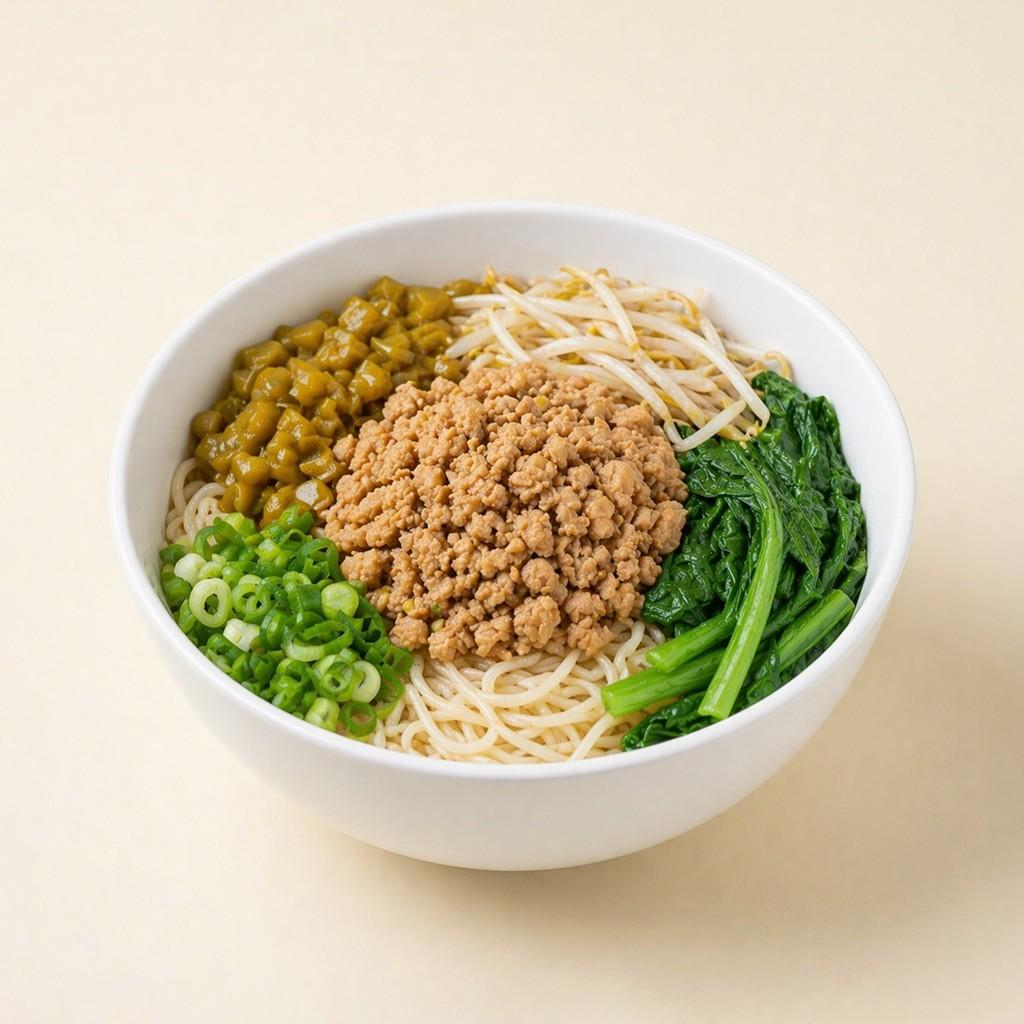
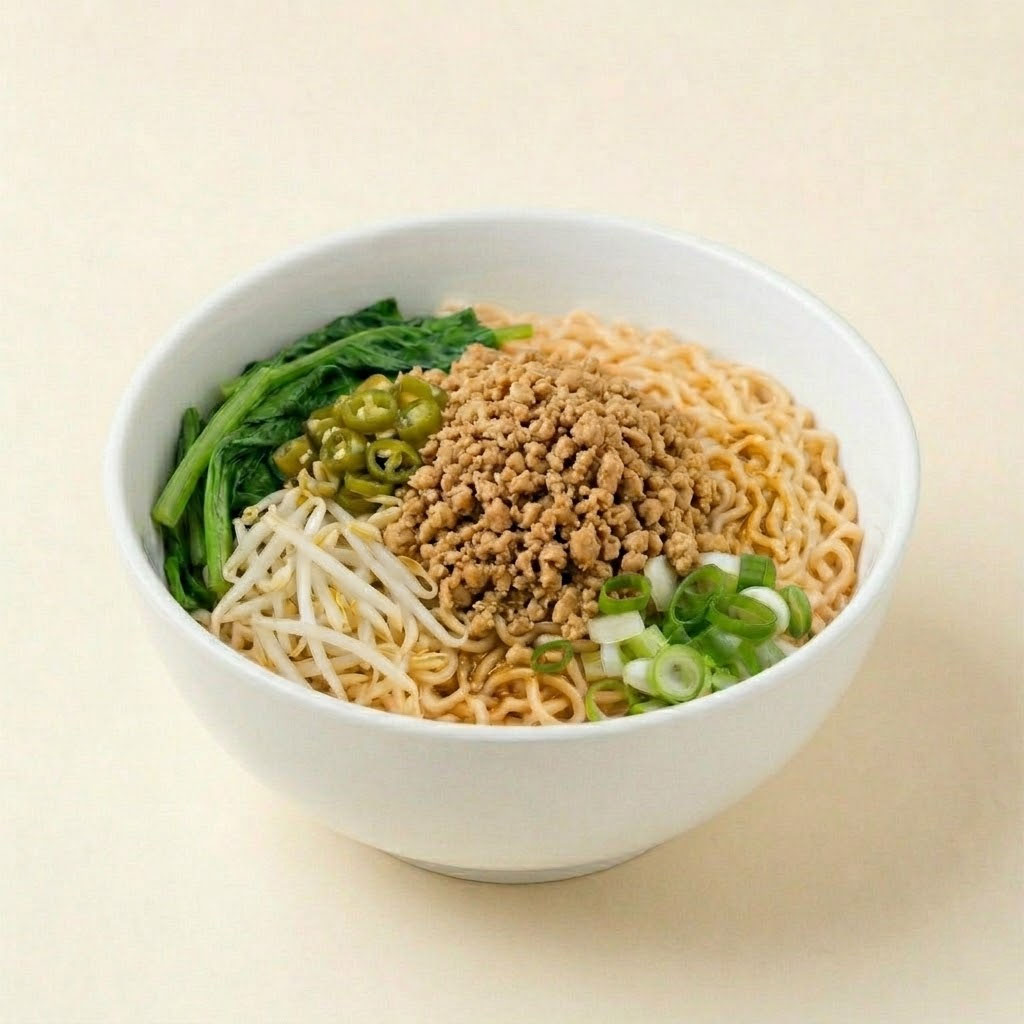
Add files via upload

Changed region(s): [[0.0938, 0.25, 0.9062, 0.7812], [0.4062, 0.8438, 0.5938, 0.875], [0.5938, 0.8125, 0.625, 0.8438]]

diff --git a/index.html b/index.html
@@ -27,6 +27,22 @@
             -webkit-backdrop-filter: blur(12px);
         }
 
+
+        html {
+            scroll-behavior: smooth;
+        }
+
+        #menu-section {
+            scroll-margin-top: 70px;
+        }
+        .no-scrollbar::-webkit-scrollbar {
+            display: none;
+        }
+        .no-scrollbar {
+            -ms-overflow-style: none;
+            scrollbar-width: none;
+        }
+
         .menu-card {
             background: white;
             border-radius: 16px;
@@ -96,7 +112,57 @@
         </div>
     </nav>
 
-    <main class="mobile-container pt-16 pb-28 px-3">
+    <section class="w-full pt-14 overflow-hidden relative"> 
+        <div id="hero-slider" class="flex overflow-x-auto snap-x snap-mandatory no-scrollbar h-[calc(100vh-56px)] scroll-smooth">        
+            
+            <div class="min-w-full h-full snap-center relative">
+                <img src="hero/banner1.jpg" alt="Hero 1" class="w-full h-full object-cover block">
+                <div class="absolute inset-0 flex items-start pt-10"> 
+                    <div class="max-w-md mx-auto px-4 w-full"> 
+                        <div class="bg-white/60 backdrop-blur-md border border-white/40 p-5 rounded-2xl shadow-sm">
+                            <h2 class="font-bold text-red-500 tracking-tighter leading-none mb-3" style="font-size: 32px;">Nikmat Tiap Suapan</h2>
+                            <p class="font-medium text-slate-900 leading-2 mb-5" style="font-size: 14px;">Nikmati kehangatan bakmi kenyal dengan bumbu spesial yang mampu membangkitkan kembali semangat Anda dalam seketika.</p>
+                            <a href="#menu-section" class="inline-block bg-red-500 text-white px-5 py-2 rounded-xl font-bold text-xs uppercase tracking-wider active:scale-95 transition-transform">Lihat Menu</a>
+                        </div>
+                    </div>
+                </div>
+            </div>
+
+            <div class="min-w-full h-full snap-center relative">
+                <img src="hero/banner2.jpg" alt="Hero 2" class="w-full h-full object-cover block">
+                <div class="absolute inset-0 flex items-start pt-10"> 
+                    <div class="max-w-md mx-auto px-4 w-full"> 
+                        <div class="bg-white/60 backdrop-blur-md border border-white/40 p-5 rounded-2xl shadow-sm">
+                            <h2 class="font-bold text-red-500 tracking-tighter leading-none mb-3" style="font-size: 32px;">Solusi Lapar Anda</h2>
+                            <p class="font-medium text-slate-900 leading-2 mb-5" style="font-size: 14px;">Manjakan lidah dengan semangkok bakmi kenyal dengan bumbu gurih yang sangat lezat dalam mengusir rasa lapar Anda.</p>
+                            <a href="#menu-section" class="inline-block bg-red-500 text-white px-5 py-2 rounded-xl font-bold text-xs uppercase tracking-wider active:scale-95 transition-transform">Lihat Menu</a>
+                        </div>
+                    </div>
+                </div>
+            </div>
+
+            <div class="min-w-full h-full snap-center relative">
+                <img src="hero/banner3.jpg" alt="Hero 3" class="w-full h-full object-cover block">
+                <div class="absolute inset-0 flex items-start pt-10"> 
+                    <div class="max-w-md mx-auto px-4 w-full"> 
+                        <div class="bg-white/60 backdrop-blur-md border border-white/40 p-5 rounded-2xl shadow-sm">
+                            <h2 class="font-bold text-red-500 tracking-tighter leading-none mb-3" style="font-size: 32px;">Pilihan Menu Favorit</h2>
+                            <p class="font-medium text-slate-900 leading-2 mb-5" style="font-size: 14px;">Tersedia pilihan topping pangsit, bakso sapi, atau bakso ikan yang semuanya bisa disesuaikan dengan keinginan selera makan Anda.</p>
+                            <a href="#menu-section" class="inline-block bg-red-500 text-white px-5 py-2 rounded-xl font-bold text-xs uppercase tracking-wider active:scale-95 transition-transform">Lihat Menu</a>
+                        </div>
+                    </div>
+                </div>
+            </div>
+        </div>
+        
+        <div id="hero-dots" class="flex justify-center gap-2 -mt-8 pb-4 relative z-10">
+            <button onclick="scrollToBanner(0)" class="w-2 h-2 rounded-full bg-white shadow-sm transition-all duration-300 opacity-100"></button>
+            <button onclick="scrollToBanner(1)" class="w-2 h-2 rounded-full bg-white shadow-sm transition-all duration-300 opacity-50"></button>
+            <button onclick="scrollToBanner(2)" class="w-2 h-2 rounded-full bg-white shadow-sm transition-all duration-300 opacity-50"></button>
+        </div>
+    </section>
+
+    <main id="menu-section" class="mobile-container pt-16 pb-28 px-3">
         <div class="flex justify-start items-center gap-2 pb-4 overflow-x-auto no-scrollbar" id="category-list">
             <button onclick="setActiveNav(this, 'all')" 
                 class="category-pill whitespace-nowrap px-4 py-1.5 rounded-lg font-bold bg-red-500 text-white shadow-sm">
@@ -245,6 +311,25 @@
     </footer>
 
     <script>
+        function scrollToBanner(index) {
+            const slider = document.getElementById('hero-slider');
+            if (slider) {
+                const bannerWidth = slider.offsetWidth;
+                slider.scrollTo({
+                    left: bannerWidth * index,
+                    behavior: 'smooth'
+                });
+            }
+        }
+
+        document.getElementById('hero-slider').addEventListener('scroll', function() {
+            const index = Math.round(this.scrollLeft / this.offsetWidth);
+            const dots = document.querySelectorAll('#hero-dots button');
+            dots.forEach((dot, i) => {
+                dot.style.opacity = i === index ? '1' : '0.5';
+            });
+        });
+
         let cart = [];
         let currentToppingProduct = null;
 
@@ -282,7 +367,7 @@
                     { name: "Es Teh Tawar", price: 2000, desc: "Minuman es teh tawar air dingin", img: "img/es-teh-tawar.jpeg", hasTopping: false },
                     { name: "Es Teh Manis", price: 4000, desc: "Minuman es teh manis air dingin", img: "img/es-teh-manis.jpeg", hasTopping: false },
                     { name: "Es Air Putih", price: 2000, desc: "Minuman es air putih dingin", img: "img/es-air-putih.jpeg", hasTopping: false },
-                    { name: "Es Good Day Cappuccino", price: 5000, desc: "Minuman es good day cappuccino", img: "img/goodday-cappucino.jpeg", hasTopping: false },
+                    { name: "Es Good Day Cappucino", price: 5000, desc: "Minuman es good day cappuccino", img: "img/goodday-cappucino.jpeg", hasTopping: false, isSoldOut: true },
                     { name: "Kopi Hitam", price: 5000, desc: "Minuman kopi hitam air panas", img: "img/kopi-hitam.jpeg", hasTopping: false },
                     { name: "Air Mineral Oasis", price: 3000, desc: "Minuman botol air mineral 600 ml", img: "img/air-mineral-oasis.jpeg", hasTopping: false },
                     { name: "Teh Pucuk", price: 5000, desc: "Minuman botol teh pucuk 350 ml", img: "img/teh-pucuk.jpeg", hasTopping: false },
@@ -299,8 +384,15 @@
             menuData.forEach(group => {
                 if (filter !== 'all' && group.type !== filter) return;
                 group.items.forEach(item => {
+                    
+                    const soldOutClass = item.isSoldOut ? 'grayscale opacity-70' : '';
+                    const pointerClass = item.isSoldOut ? 'cursor-not-allowed' : 'cursor-pointer';
+                    const clickAction = item.isSoldOut ? '' : `onclick="handleItemClick('${item.name}', ${item.price}, ${item.hasTopping})"`;
+                    const buttonText = item.isSoldOut ? 'Kosong' : 'Tambah';
+                    const buttonColor = item.isSoldOut ? 'bg-slate-400' : 'bg-red-500 active:bg-red-600';
+
                     container.innerHTML += `
-                        <div class="menu-card flex flex-col shadow-sm">
+                        <div class="menu-card flex flex-col shadow-sm ${soldOutClass}">
                             <div class="img-container">
                                 <img src="${item.img}" alt="${item.name}">
                                 <div class="absolute top-2 right-2 bg-white/90 px-1.5 py-0.5 rounded-lg border border-slate-50">
@@ -311,9 +403,9 @@
                                 <h3 class="font-bold text-slate-800 mb-1 leading-tight" style="font-size: 10px;">${item.name}</h3>
                                 <p class="menu-desc text-slate-400 line-clamp-2 mb-2">${item.desc}</p>
                                 <div class="mt-auto">
-                                    <div onclick="handleItemClick('${item.name}', ${item.price}, ${item.hasTopping})"
-                                        class="w-full py-1.5 bg-red-500 rounded-lg text-white flex items-center justify-center cursor-pointer active:bg-red-600">
-                                        <span class="font-bold uppercase tracking-tighter" style="font-size: 9px;">Tambah</span>
+                                    <div ${clickAction}
+                                        class="w-full py-1.5 ${buttonColor} rounded-lg text-white flex items-center justify-center ${pointerClass}">
+                                        <span class="font-bold uppercase tracking-tighter" style="font-size: 9px;">${buttonText}</span>
                                     </div>
                                 </div>
                             </div>
